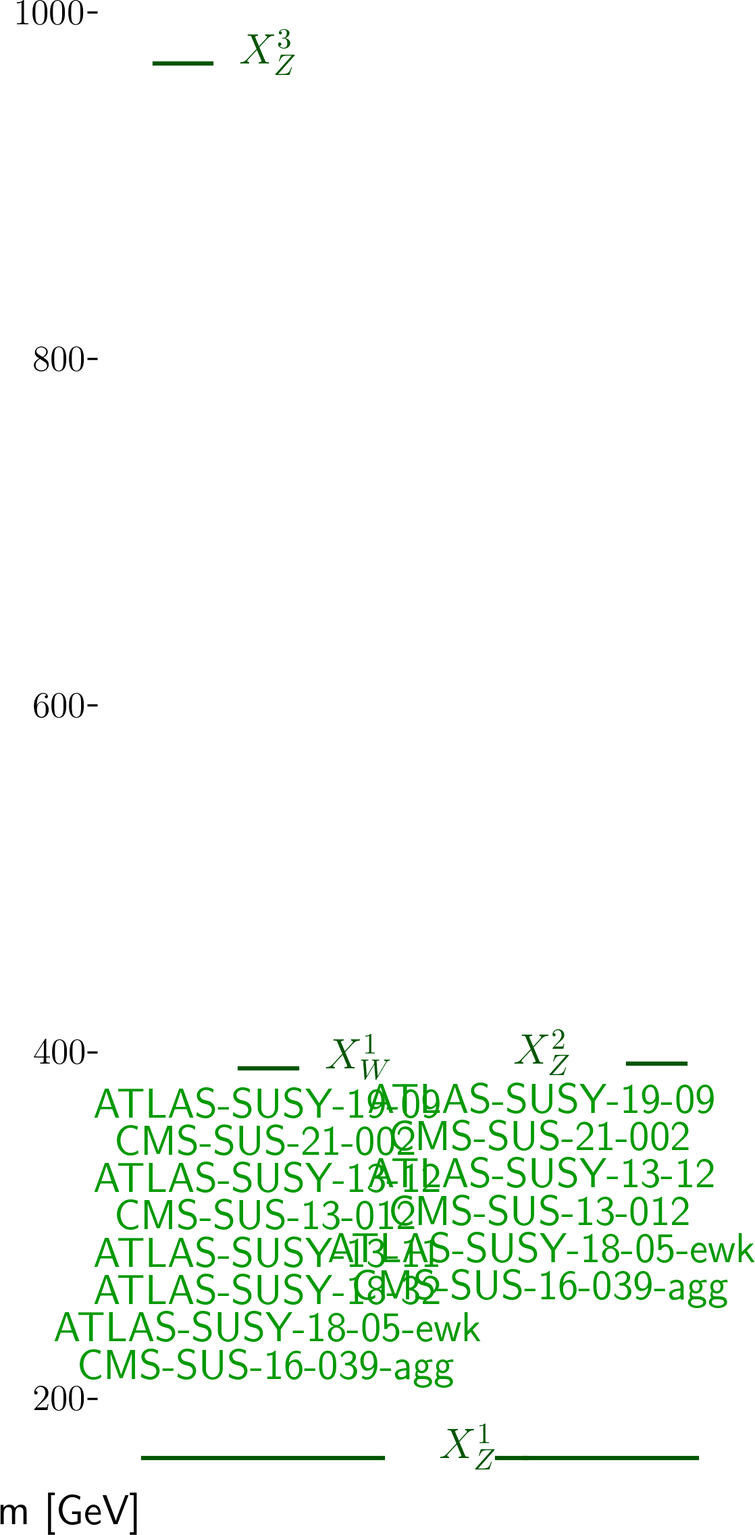
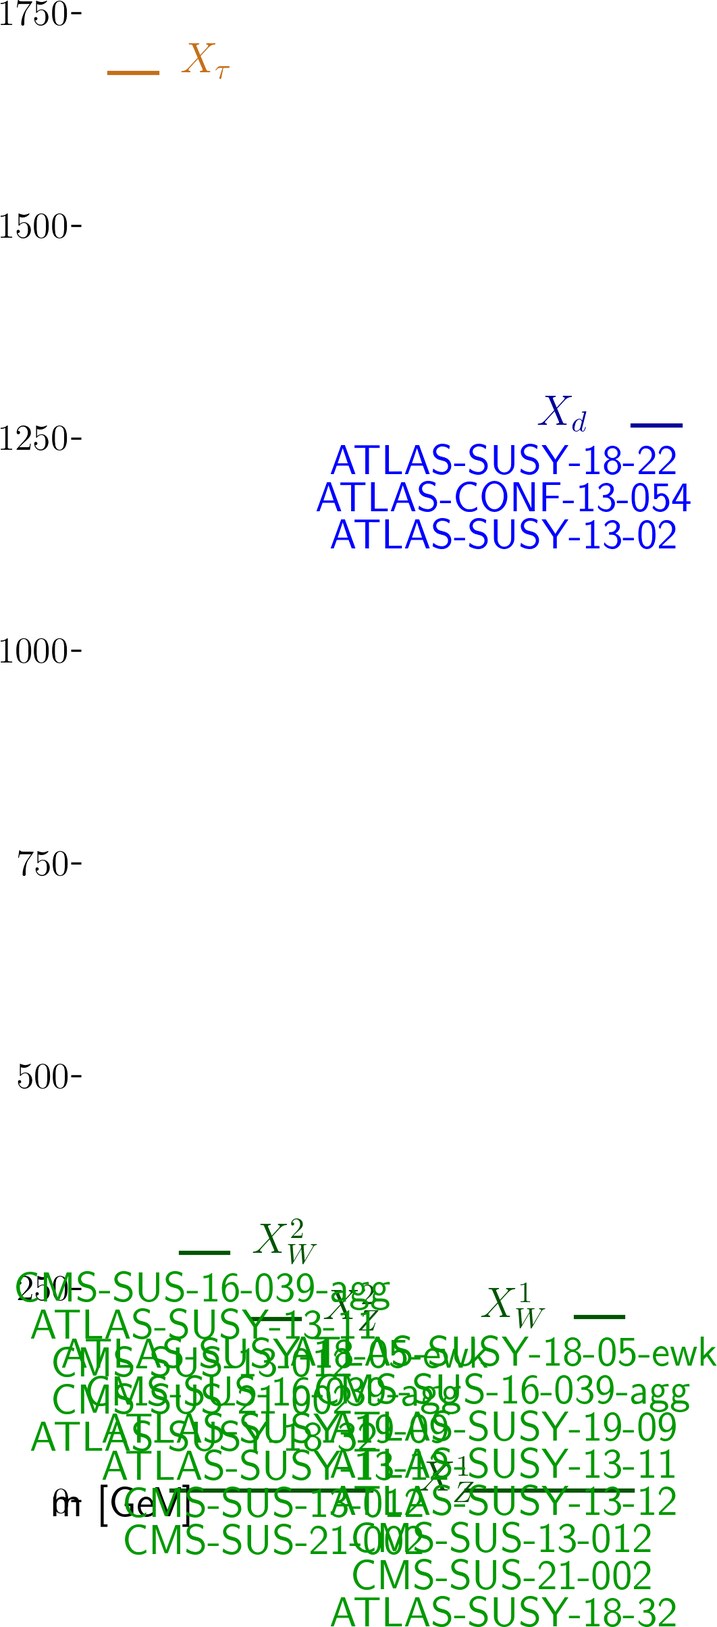
automated update by plotHiscore.py to fake_ewk1_310:     K=66.319 TL=76.07 walkerid=0

diff --git a/protomodels/fake_ewk1_310/rawnumbers.html b/protomodels/fake_ewk1_310/rawnumbers.html
@@ -1,31 +1,59 @@
 <table>
 <tr><th>Analysis Name</th><th>Type</th><th>Dataset</th><th>Topos</th><th>Observed</th><th>Expected</th><th>Approx &sigma;</th><th>Particles</th><th>Signal</th>
 </tr>
-<tr><td><a href=https://atlas.web.cern.ch/Atlas/GROUPS/PHYSICS/PAPERS/SUSY-2018-05/>ATLAS-SUSY-2018-05-ewk</a></td><td>comb</td> <td>-</td><td>TChiWZ</td><td> 0.7 fb </td><td> 0.1 fb</td><td style="text-align:right">7.0 &sigma;</td><td style="text-align:right">X<sup>1</sup><sub>W</sub>, X<sup>1</sup><sub>Z</sub>, X<sup>2</sup><sub>Z</sub></td><td style="text-align:right">-</td></tr>
-<tr><td><a href=https://atlas.web.cern.ch/Atlas/GROUPS/PHYSICS/PAPERS/SUSY-2018-32/>ATLAS-SUSY-2018-32</a></td><td>comb</td> <td>-</td><td>TChiWW</td><td> 1 fb </td><td> 0.4 fb</td><td style="text-align:right">3.3 &sigma;</td><td style="text-align:right">X<sup>1</sup><sub>W</sub>, X<sup>1</sup><sub>Z</sub></td><td style="text-align:right">-</td></tr>
-<tr><td><a href=http://cms-results.web.cern.ch/cms-results/public-results/publications/SUS-21-002/>CMS-SUS-21-002</a></td><td>comb</td> <td>-</td><td>TChiWW, TChiWZ</td><td> 2 fb </td><td> 1 fb</td><td style="text-align:right">2.9 &sigma;</td><td style="text-align:right">X<sup>1</sup><sub>W</sub>, X<sup>1</sup><sub>Z</sub>, X<sup>2</sup><sub>Z</sub></td><td style="text-align:right">-</td></tr>
-<tr><td><a href=https://twiki.cern.ch/twiki/bin/view/CMSPublic/PhysicsResultsSUS13012>CMS-SUS-13-012</a></td><td>em</td> <td>6NJet8_500HT800 ...</td><td>TChiWW, TChiWZ, TChiZZ</td><td>75</td><td>52.00 +/- 12.00</td><td style="text-align:right">1.6 &sigma;</td><td style="text-align:right">X<sup>1</sup><sub>W</sub>, X<sup>1</sup><sub>Z</sub>, X<sup>2</sup><sub>Z</sub></td><td style="text-align:right">1</td></tr>
-<tr><td><a href=https://atlas.web.cern.ch/Atlas/GROUPS/PHYSICS/PAPERS/SUSY-2013-12/>ATLAS-SUSY-2013-12</a></td><td>em</td> <td>SR0tau_a_Bin16</td><td>TChiWZ</td><td>9</td><td>4.60 +/- 1.70</td><td style="text-align:right">1.5 &sigma;</td><td style="text-align:right">X<sup>1</sup><sub>W</sub>, X<sup>1</sup><sub>Z</sub>, X<sup>2</sup><sub>Z</sub></td><td style="text-align:right">3</td></tr>
-<tr><td><a href=https://atlas.web.cern.ch/Atlas/GROUPS/PHYSICS/PAPERS/SUSY-2013-11/>ATLAS-SUSY-2013-11</a></td><td>em</td> <td>WWc-SF</td><td>TChiWW</td><td>28</td><td>20.30 +/- 3.50</td><td style="text-align:right">1.3 &sigma;</td><td style="text-align:right">X<sup>1</sup><sub>W</sub>, X<sup>1</sup><sub>Z</sub></td><td style="text-align:right">1</td></tr>
-<tr><td><a href=http://cms-results.web.cern.ch/cms-results/public-results/publications/SUS-16-039/index.html>CMS-SUS-16-039-agg</a></td><td>comb</td> <td>-</td><td>TChiWZ</td><td> 2 fb </td><td> 1 fb</td><td style="text-align:right">1.2 &sigma;</td><td style="text-align:right">X<sup>1</sup><sub>W</sub>, X<sup>1</sup><sub>Z</sub>, X<sup>2</sup><sub>Z</sub></td><td style="text-align:right">-</td></tr>
-<tr><td><a href=https://atlas.web.cern.ch/Atlas/GROUPS/PHYSICS/PAPERS/SUSY-2019-09/>ATLAS-SUSY-2019-09</a></td><td>comb</td> <td>-</td><td>TChiWZ</td><td> 1 fb </td><td> 0.2 fb</td><td style="text-align:right">inf &sigma;</td><td style="text-align:right">X<sup>1</sup><sub>W</sub>, X<sup>1</sup><sub>Z</sub>, X<sup>2</sup><sub>Z</sub></td><td style="text-align:right">-</td></tr>
+<tr><td><a href=https://atlas.web.cern.ch/Atlas/GROUPS/PHYSICS/PAPERS/SUSY-2019-09/>ATLAS-SUSY-2019-09</a></td><td>comb</td> <td>-</td><td>TChiWZ</td><td> 1 fb </td><td> 0.3 fb</td><td style="text-align:right">6.0 &sigma;</td><td style="text-align:right">X<sup>1</sup><sub>W</sub>, X<sup>1</sup><sub>Z</sub>, X<sup>2</sup><sub>Z</sub></td><td style="text-align:right">-</td></tr>
+<tr><td><a href=http://cms-results.web.cern.ch/cms-results/public-results/publications/SUS-16-039/index.html>CMS-SUS-16-039-agg</a></td><td>comb</td> <td>-</td><td>TChiWZ</td><td> 4 fb </td><td> 2 fb</td><td style="text-align:right">3.4 &sigma;</td><td style="text-align:right">X<sup>1</sup><sub>W</sub>, X<sup>2</sup><sub>W</sub>, X<sup>1</sup><sub>Z</sub>, X<sup>2</sup><sub>Z</sub></td><td style="text-align:right">-</td></tr>
+<tr><td><a href=https://atlas.web.cern.ch/Atlas/GROUPS/PHYSICS/PAPERS/SUSY-2018-05/>ATLAS-SUSY-2018-05-ewk</a></td><td>comb</td> <td>-</td><td>TChiWZ</td><td> 0.4 fb </td><td> 0.2 fb</td><td style="text-align:right">3.2 &sigma;</td><td style="text-align:right">X<sup>1</sup><sub>W</sub>, X<sup>1</sup><sub>Z</sub>, X<sup>2</sup><sub>Z</sub></td><td style="text-align:right">-</td></tr>
+<tr><td><a href=https://atlas.web.cern.ch/Atlas/GROUPS/PHYSICS/PAPERS/SUSY-2013-11/>ATLAS-SUSY-2013-11</a></td><td>em</td> <td>WWb-DF</td><td>TChiWW</td><td>33</td><td>18.10 +/- 2.60</td><td style="text-align:right">2.7 &sigma;</td><td style="text-align:right">X<sup>1</sup><sub>W</sub>, X<sup>2</sup><sub>W</sub>, X<sup>1</sup><sub>Z</sub></td><td style="text-align:right">7</td></tr>
+<tr><td><a href=https://atlas.web.cern.ch/Atlas/GROUPS/PHYSICS/PAPERS/SUSY-2018-32/>ATLAS-SUSY-2018-32</a></td><td>comb</td> <td>-</td><td>TChiWW</td><td> 0.7 fb </td><td> 0.3 fb</td><td style="text-align:right">2.2 &sigma;</td><td style="text-align:right">X<sup>1</sup><sub>W</sub>, X<sup>2</sup><sub>W</sub>, X<sup>1</sup><sub>Z</sub></td><td style="text-align:right">-</td></tr>
+<tr><td><a href=https://atlas.web.cern.ch/Atlas/GROUPS/PHYSICS/PAPERS/SUSY-2013-02/>ATLAS-SUSY-2013-02</a></td><td>em</td> <td>SR4jm</td><td>T2</td><td>52</td><td>37.00 +/- 6.00</td><td style="text-align:right">1.7 &sigma;</td><td style="text-align:right">X<sub>d</sub>, X<sup>1</sup><sub>Z</sub></td><td style="text-align:right">-</td></tr>
+<tr><td><a href=https://twiki.cern.ch/twiki/bin/view/CMSPublic/PhysicsResultsSUS13012>CMS-SUS-13-012</a></td><td>em</td> <td>3NJet6_800HT100 ...</td><td>TChiWW, TChiWZ, TChiZZ</td><td>138</td><td>108.00 +/- 15.00</td><td style="text-align:right">1.6 &sigma;</td><td style="text-align:right">X<sup>1</sup><sub>W</sub>, X<sup>2</sup><sub>W</sub>, X<sup>1</sup><sub>Z</sub>, X<sup>2</sup><sub>Z</sub></td><td style="text-align:right">4</td></tr>
+<tr><td><a href=https://atlas.web.cern.ch/Atlas/GROUPS/PHYSICS/CONFNOTES/ATLAS-CONF-2013-054/>ATLAS-CONF-2013-054</a></td><td>em</td> <td>8j50 flavor 0 b ...</td><td>T2</td><td>46</td><td>35.00 +/- 4.00</td><td style="text-align:right">1.5 &sigma;</td><td style="text-align:right">X<sub>d</sub>, X<sup>1</sup><sub>Z</sub></td><td style="text-align:right">-</td></tr>
+<tr><td><a href=https://atlas.web.cern.ch/Atlas/GROUPS/PHYSICS/PAPERS/SUSY-2013-12/>ATLAS-SUSY-2013-12</a></td><td>em</td> <td>SR0tau_a_Bin16</td><td>TChiWZ</td><td>9</td><td>4.60 +/- 1.70</td><td style="text-align:right">1.5 &sigma;</td><td style="text-align:right">X<sup>1</sup><sub>W</sub>, X<sup>1</sup><sub>Z</sub>, X<sup>2</sup><sub>Z</sub></td><td style="text-align:right">7</td></tr>
+<tr><td><a href=http://cms-results.web.cern.ch/cms-results/public-results/publications/SUS-21-002/>CMS-SUS-21-002</a></td><td>comb</td> <td>-</td><td>TChiWW, TChiWZ</td><td> 1 fb </td><td> 0.9 fb</td><td style="text-align:right">1.4 &sigma;</td><td style="text-align:right">X<sup>1</sup><sub>W</sub>, X<sup>2</sup><sub>W</sub>, X<sup>1</sup><sub>Z</sub>, X<sup>2</sup><sub>Z</sub></td><td style="text-align:right">-</td></tr>
+<tr><td><a href=https://atlas.web.cern.ch/Atlas/GROUPS/PHYSICS/PAPERS/SUSY-2018-22/>ATLAS-SUSY-2018-22</a></td><td>em</td> <td>SR2j_2200</td><td>T2</td><td>1056</td><td>980.00 +/- 50.00</td><td style="text-align:right">1.3 &sigma;</td><td style="text-align:right">X<sub>d</sub>, X<sup>1</sup><sub>Z</sub></td><td style="text-align:right">-</td></tr>
 </table>
 <table style='color:grey'>
-<tr><th>Not in Best Combo</th><th>Type</th><th>Dataset</th><th>Topos</th><th>Observed</th><th>Expected</th><th>Approx &sigma;</th><th>Particles</th><tr><td><a href=https://atlas.web.cern.ch/Atlas/GROUPS/PHYSICS/PAPERS/SUSY-2016-24/>ATLAS-SUSY-2016-24</a></td><td>em</td> <td>SR2-int</td><td>TChiWZ</td><td>21</td><td>4.10 +/- 2.60</td><td style="text-align:right">3.8 &sigma;</td><td style="text-align:right">X<sup>1</sup><sub>W</sub>, X<sup>1</sup><sub>Z</sub>, X<sup>2</sup><sub>Z</sub></td><td style="text-align:right">15</td></tr>
-<tr><td><a href=https://atlas.web.cern.ch/Atlas/GROUPS/PHYSICS/PAPERS/SUSY-2016-24/>ATLAS-SUSY-2016-24</a></td><td>em</td> <td>WZ-0Jc</td><td>TChiWZ</td><td>6</td><td>1.60 +/- 0.30</td><td style="text-align:right">2.6 &sigma;</td><td style="text-align:right">X<sup>1</sup><sub>W</sub>, X<sup>1</sup><sub>Z</sub>, X<sup>2</sup><sub>Z</sub></td><td style="text-align:right">4</td></tr>
-<tr><td><a href=https://atlas.web.cern.ch/Atlas/GROUPS/PHYSICS/PAPERS/SUSY-2018-06/>ATLAS-SUSY-2018-06</a></td><td>em</td> <td>SR_low</td><td>TChiWZ</td><td>65</td><td>46.00 +/- 5.00</td><td style="text-align:right">2.1 &sigma;</td><td style="text-align:right">X<sup>1</sup><sub>W</sub>, X<sup>1</sup><sub>Z</sub>, X<sup>2</sup><sub>Z</sub></td><td style="text-align:right">30</td></tr>
-<tr><td><a href=https://atlas.web.cern.ch/Atlas/GROUPS/PHYSICS/PAPERS/SUSY-2017-03/>ATLAS-SUSY-2017-03</a></td><td>em</td> <td>SR2l_Int</td><td>TChiWZ</td><td>7</td><td>2.40 +/- 0.90</td><td style="text-align:right">2.1 &sigma;</td><td style="text-align:right">X<sup>1</sup><sub>W</sub>, X<sup>1</sup><sub>Z</sub>, X<sup>2</sup><sub>Z</sub></td><td style="text-align:right">6</td></tr>
-<tr><td><a href=https://atlas.web.cern.ch/Atlas/GROUPS/PHYSICS/PAPERS/SUSY-2017-03/>ATLAS-SUSY-2017-03</a></td><td>em</td> <td>SR3l_Int</td><td>TChiWZ</td><td>6</td><td>2.30 +/- 0.50</td><td style="text-align:right">2.0 &sigma;</td><td style="text-align:right">X<sup>1</sup><sub>W</sub>, X<sup>1</sup><sub>Z</sub>, X<sup>2</sup><sub>Z</sub></td><td style="text-align:right">5</td></tr>
-<tr><td><a href=https://atlas.web.cern.ch/Atlas/GROUPS/PHYSICS/PAPERS/SUSY-2016-24/>ATLAS-SUSY-2016-24</a></td><td>em</td> <td>WZ-1Jc</td><td>TChiWZ</td><td>4</td><td>1.30 +/- 0.30</td><td style="text-align:right">1.9 &sigma;</td><td style="text-align:right">X<sup>1</sup><sub>W</sub>, X<sup>1</sup><sub>Z</sub>, X<sup>2</sup><sub>Z</sub></td><td style="text-align:right">3</td></tr>
-<tr><td><a href=https://atlas.web.cern.ch/Atlas/GROUPS/PHYSICS/PAPERS/SUSY-2017-03/>ATLAS-SUSY-2017-03</a></td><td>em</td> <td>SR3l_Low</td><td>TChiWZ</td><td>17</td><td>10.00 +/- 2.00</td><td style="text-align:right">1.7 &sigma;</td><td style="text-align:right">X<sup>1</sup><sub>W</sub>, X<sup>1</sup><sub>Z</sub>, X<sup>2</sup><sub>Z</sub></td><td style="text-align:right">6</td></tr>
-<tr><td><a href=https://atlas.web.cern.ch/Atlas/GROUPS/PHYSICS/PAPERS/SUSY-2017-03/>ATLAS-SUSY-2017-03</a></td><td>em</td> <td>SR2l_High</td><td>TChiWZ</td><td>5</td><td>1.90 +/- 0.80</td><td style="text-align:right">1.7 &sigma;</td><td style="text-align:right">X<sup>1</sup><sub>W</sub>, X<sup>1</sup><sub>Z</sub>, X<sup>2</sup><sub>Z</sub></td><td style="text-align:right">2</td></tr>
-<tr><td><a href=https://atlas.web.cern.ch/Atlas/GROUPS/PHYSICS/PAPERS/SUSY-2017-03/>ATLAS-SUSY-2017-03</a></td><td>em</td> <td>SR3l_High</td><td>TChiWZ</td><td>3</td><td>1.10 +/- 0.50</td><td style="text-align:right">1.4 &sigma;</td><td style="text-align:right">X<sup>1</sup><sub>W</sub>, X<sup>1</sup><sub>Z</sub>, X<sup>2</sup><sub>Z</sub></td><td style="text-align:right">3</td></tr>
-<tr><td><a href=https://atlas.web.cern.ch/Atlas/GROUPS/PHYSICS/PAPERS/SUSY-2017-03/>ATLAS-SUSY-2017-03</a></td><td>em</td> <td>SR3l_ISR</td><td>TChiWZ</td><td>7</td><td>3.90 +/- 1.00</td><td style="text-align:right">1.3 &sigma;</td><td style="text-align:right">X<sup>1</sup><sub>W</sub>, X<sup>1</sup><sub>Z</sub>, X<sup>2</sup><sub>Z</sub></td><td style="text-align:right">2</td></tr>
-<tr><td><a href=https://atlas.web.cern.ch/Atlas/GROUPS/PHYSICS/PAPERS/SUSY-2017-03/>ATLAS-SUSY-2017-03</a></td><td>em</td> <td>SR2l_Low</td><td>TChiWZ</td><td>17</td><td>8.40 +/- 5.80</td><td style="text-align:right">1.2 &sigma;</td><td style="text-align:right">X<sup>1</sup><sub>W</sub>, X<sup>1</sup><sub>Z</sub>, X<sup>2</sup><sub>Z</sub></td><td style="text-align:right">1</td></tr>
-<tr><td><a href=https://atlas.web.cern.ch/Atlas/GROUPS/PHYSICS/PAPERS/SUSY-2016-24/>ATLAS-SUSY-2016-24</a></td><td>em</td> <td>WZ-1Ja</td><td>TChiWZ</td><td>4</td><td>2.20 +/- 0.50</td><td style="text-align:right">1.1 &sigma;</td><td style="text-align:right">X<sup>1</sup><sub>W</sub>, X<sup>1</sup><sub>Z</sub>, X<sup>2</sup><sub>Z</sub></td><td style="text-align:right">0</td></tr>
-<tr><td><a href=https://atlas.web.cern.ch/Atlas/GROUPS/PHYSICS/PAPERS/SUSY-2016-24/>ATLAS-SUSY-2016-24</a></td><td>em</td> <td>WZ-1Jb</td><td>TChiWZ</td><td>3</td><td>1.80 +/- 0.30</td><td style="text-align:right">0.9 &sigma;</td><td style="text-align:right">X<sup>1</sup><sub>W</sub>, X<sup>1</sup><sub>Z</sub>, X<sup>2</sup><sub>Z</sub></td><td style="text-align:right">0</td></tr>
-<tr><td><a href=https://atlas.web.cern.ch/Atlas/GROUPS/PHYSICS/PAPERS/SUSY-2016-24/>ATLAS-SUSY-2016-24</a></td><td>em</td> <td>WZ-0Jb</td><td>TChiWZ</td><td>4</td><td>2.70 +/- 0.50</td><td style="text-align:right">0.8 &sigma;</td><td style="text-align:right">X<sup>1</sup><sub>W</sub>, X<sup>1</sup><sub>Z</sub>, X<sup>2</sup><sub>Z</sub></td><td style="text-align:right">2</td></tr>
-<tr><td><a href=https://atlas.web.cern.ch/Atlas/GROUPS/PHYSICS/PAPERS/SUSY-2018-06/>ATLAS-SUSY-2018-06</a></td><td>em</td> <td>SR_ISR</td><td>TChiWZ</td><td>25</td><td>23.40 +/- 2.10</td><td style="text-align:right">0.3 &sigma;</td><td style="text-align:right">X<sup>1</sup><sub>W</sub>, X<sup>1</sup><sub>Z</sub>, X<sup>2</sup><sub>Z</sub></td><td style="text-align:right">4</td></tr>
-<tr><td><a href=https://atlas.web.cern.ch/Atlas/GROUPS/PHYSICS/PAPERS/SUSY-2017-03/>ATLAS-SUSY-2017-03</a></td><td>em</td> <td>SR2l_ISR</td><td>TChiWZ</td><td>4</td><td>2.70 +/- 2.80</td><td style="text-align:right">0.3 &sigma;</td><td style="text-align:right">X<sup>1</sup><sub>W</sub>, X<sup>1</sup><sub>Z</sub>, X<sup>2</sup><sub>Z</sub></td><td style="text-align:right">0</td></tr>
-<tr><td><a href=https://atlas.web.cern.ch/Atlas/GROUPS/PHYSICS/PAPERS/SUSY-2016-24/>ATLAS-SUSY-2016-24</a></td><td>em</td> <td>WZ-0Ja</td><td>TChiWZ</td><td>21</td><td>21.70 +/- 2.90</td><td style="text-align:right">-0.1 &sigma;</td><td style="text-align:right">X<sup>1</sup><sub>W</sub>, X<sup>1</sup><sub>Z</sub>, X<sup>2</sup><sub>Z</sub></td><td style="text-align:right">2</td></tr>
+<tr><th>Not in Best Combo</th><th>Type</th><th>Dataset</th><th>Topos</th><th>Observed</th><th>Expected</th><th>Approx &sigma;</th><th>Particles</th><tr><td><a href=http://atlas.web.cern.ch/Atlas/GROUPS/PHYSICS/PAPERS/SUSY-2015-06/>ATLAS-SUSY-2015-06</a></td><td>em</td> <td>SR5j</td><td>T2</td><td>23</td><td>13.20 +/- 2.20</td><td style="text-align:right">2.1 &sigma;</td><td style="text-align:right">X<sub>d</sub>, X<sup>1</sup><sub>Z</sub></td><td style="text-align:right">-</td></tr>
+<tr><td><a href=https://atlas.web.cern.ch/Atlas/GROUPS/PHYSICS/PAPERS/SUSY-2016-07/>ATLAS-SUSY-2016-07</a></td><td>em</td> <td>4j_Meff_1800</td><td>T2, T6WW</td><td>70</td><td>49.00 +/- 7.00</td><td style="text-align:right">2.0 &sigma;</td><td style="text-align:right">X<sup>1</sup><sub>W</sub>, X<sub>d</sub>, X<sup>1</sup><sub>Z</sub></td><td style="text-align:right">-</td></tr>
+<tr><td><a href=https://atlas.web.cern.ch/Atlas/GROUPS/PHYSICS/PAPERS/SUSY-2018-06/>ATLAS-SUSY-2018-06</a></td><td>em</td> <td>SR_low</td><td>TChiWZ</td><td>63</td><td>46.00 +/- 5.00</td><td style="text-align:right">1.9 &sigma;</td><td style="text-align:right">X<sup>1</sup><sub>W</sub>, X<sup>1</sup><sub>Z</sub>, X<sup>2</sup><sub>Z</sub></td><td style="text-align:right">25</td></tr>
+<tr><td><a href=https://atlas.web.cern.ch/Atlas/GROUPS/PHYSICS/PAPERS/SUSY-2016-07/>ATLAS-SUSY-2016-07</a></td><td>em</td> <td>5j_Meff_1600</td><td>T2, T6WW</td><td>162</td><td>128.00 +/- 14.00</td><td style="text-align:right">1.8 &sigma;</td><td style="text-align:right">X<sup>1</sup><sub>W</sub>, X<sub>d</sub>, X<sup>1</sup><sub>Z</sub></td><td style="text-align:right">-</td></tr>
+<tr><td><a href=https://atlas.web.cern.ch/Atlas/GROUPS/PHYSICS/PAPERS/SUSY-2018-06/>ATLAS-SUSY-2018-06</a></td><td>em</td> <td>SR_ISR</td><td>TChiWZ</td><td>33</td><td>23.40 +/- 2.10</td><td style="text-align:right">1.7 &sigma;</td><td style="text-align:right">X<sup>1</sup><sub>W</sub>, X<sup>1</sup><sub>Z</sub>, X<sup>2</sup><sub>Z</sub></td><td style="text-align:right">8</td></tr>
+<tr><td><a href=https://atlas.web.cern.ch/Atlas/GROUPS/PHYSICS/PAPERS/SUSY-2016-07/>ATLAS-SUSY-2016-07</a></td><td>em</td> <td>2j_Meff_2800</td><td>T2, T6WW</td><td>23</td><td>17.30 +/- 2.00</td><td style="text-align:right">1.2 &sigma;</td><td style="text-align:right">X<sup>1</sup><sub>W</sub>, X<sub>d</sub>, X<sup>1</sup><sub>Z</sub></td><td style="text-align:right">-</td></tr>
+<tr><td><a href=https://atlas.web.cern.ch/Atlas/GROUPS/PHYSICS/PAPERS/SUSY-2016-07/>ATLAS-SUSY-2016-07</a></td><td>em</td> <td>2j_Meff_1600</td><td>T2, T6WW</td><td>256</td><td>228.00 +/- 19.00</td><td style="text-align:right">1.2 &sigma;</td><td style="text-align:right">X<sup>1</sup><sub>W</sub>, X<sub>d</sub>, X<sup>1</sup><sub>Z</sub></td><td style="text-align:right">-</td></tr>
+<tr><td><a href=https://atlas.web.cern.ch/Atlas/GROUPS/PHYSICS/PAPERS/SUSY-2016-07/>ATLAS-SUSY-2016-07</a></td><td>em</td> <td>4j_Meff_2600</td><td>T2, T6WW</td><td>9</td><td>5.80 +/- 2.00</td><td style="text-align:right">1.0 &sigma;</td><td style="text-align:right">X<sup>1</sup><sub>W</sub>, X<sub>d</sub>, X<sup>1</sup><sub>Z</sub></td><td style="text-align:right">-</td></tr>
+<tr><td><a href=https://atlas.web.cern.ch/Atlas/GROUPS/PHYSICS/CONFNOTES/ATLAS-CONF-2013-047/>ATLAS-CONF-2013-047</a></td><td>em</td> <td>A Loose</td><td>T2</td><td>5190</td><td>4700.00 +/- 500.00</td><td style="text-align:right">1.0 &sigma;</td><td style="text-align:right">X<sub>d</sub>, X<sup>1</sup><sub>Z</sub></td><td style="text-align:right">-</td></tr>
+<tr><td><a href=https://atlas.web.cern.ch/Atlas/GROUPS/PHYSICS/CONFNOTES/ATLAS-CONF-2013-047/>ATLAS-CONF-2013-047</a></td><td>em</td> <td>A Medium</td><td>T2</td><td>142</td><td>122.00 +/- 18.00</td><td style="text-align:right">0.9 &sigma;</td><td style="text-align:right">X<sub>d</sub>, X<sup>1</sup><sub>Z</sub></td><td style="text-align:right">-</td></tr>
+<tr><td><a href=https://atlas.web.cern.ch/Atlas/GROUPS/PHYSICS/PAPERS/SUSY-2016-07/>ATLAS-SUSY-2016-07</a></td><td>em</td> <td>2j_Meff_3600</td><td>T2, T6WW</td><td>5</td><td>3.60 +/- 0.90</td><td style="text-align:right">0.7 &sigma;</td><td style="text-align:right">X<sup>1</sup><sub>W</sub>, X<sub>d</sub>, X<sup>1</sup><sub>Z</sub></td><td style="text-align:right">-</td></tr>
+<tr><td><a href=https://atlas.web.cern.ch/Atlas/GROUPS/PHYSICS/PAPERS/SUSY-2016-07/>ATLAS-SUSY-2016-07</a></td><td>em</td> <td>4j_Meff_2200</td><td>T2, T6WW</td><td>19</td><td>16.50 +/- 2.70</td><td style="text-align:right">0.5 &sigma;</td><td style="text-align:right">X<sup>1</sup><sub>W</sub>, X<sub>d</sub>, X<sup>1</sup><sub>Z</sub></td><td style="text-align:right">-</td></tr>
+<tr><td><a href=https://atlas.web.cern.ch/Atlas/GROUPS/PHYSICS/PAPERS/SUSY-2016-07/>ATLAS-SUSY-2016-07</a></td><td>em</td> <td>3j_Meff_1300</td><td>T2, T6WW</td><td>407</td><td>390.00 +/- 29.00</td><td style="text-align:right">0.5 &sigma;</td><td style="text-align:right">X<sup>1</sup><sub>W</sub>, X<sub>d</sub>, X<sup>1</sup><sub>Z</sub></td><td style="text-align:right">-</td></tr>
+<tr><td><a href=http://atlas.web.cern.ch/Atlas/GROUPS/PHYSICS/PAPERS/SUSY-2015-06/>ATLAS-SUSY-2015-06</a></td><td>em</td> <td>SR6jt</td><td>T2</td><td>5</td><td>4.20 +/- 1.20</td><td style="text-align:right">0.4 &sigma;</td><td style="text-align:right">X<sub>d</sub>, X<sup>1</sup><sub>Z</sub></td><td style="text-align:right">-</td></tr>
+<tr><td><a href=https://atlas.web.cern.ch/Atlas/GROUPS/PHYSICS/PAPERS/SUSY-2016-07/>ATLAS-SUSY-2016-07</a></td><td>em</td> <td>5j_Meff_1700</td><td>T2, T6WW</td><td>46</td><td>43.00 +/- 5.00</td><td style="text-align:right">0.4 &sigma;</td><td style="text-align:right">X<sup>1</sup><sub>W</sub>, X<sub>d</sub>, X<sup>1</sup><sub>Z</sub></td><td style="text-align:right">-</td></tr>
+<tr><td><a href=https://atlas.web.cern.ch/Atlas/GROUPS/PHYSICS/PAPERS/SUSY-2016-07/>ATLAS-SUSY-2016-07</a></td><td>em</td> <td>4j_Meff_1400</td><td>T2, T6WW</td><td>189</td><td>182.00 +/- 16.00</td><td style="text-align:right">0.3 &sigma;</td><td style="text-align:right">X<sup>1</sup><sub>W</sub>, X<sub>d</sub>, X<sup>1</sup><sub>Z</sub></td><td style="text-align:right">-</td></tr>
+<tr><td><a href=https://atlas.web.cern.ch/Atlas/GROUPS/PHYSICS/PAPERS/SUSY-2016-07/>ATLAS-SUSY-2016-07</a></td><td>em</td> <td>6j_Meff_1200</td><td>T2, T6WW</td><td>282</td><td>274.00 +/- 32.00</td><td style="text-align:right">0.2 &sigma;</td><td style="text-align:right">X<sup>1</sup><sub>W</sub>, X<sub>d</sub>, X<sup>1</sup><sub>Z</sub></td><td style="text-align:right">-</td></tr>
+<tr><td><a href=https://atlas.web.cern.ch/Atlas/GROUPS/PHYSICS/PAPERS/SUSY-2016-07/>ATLAS-SUSY-2016-07</a></td><td>em</td> <td>5j_Meff_2600</td><td>T2, T6WW</td><td>10</td><td>9.40 +/- 2.10</td><td style="text-align:right">0.2 &sigma;</td><td style="text-align:right">X<sup>1</sup><sub>W</sub>, X<sub>d</sub>, X<sup>1</sup><sub>Z</sub></td><td style="text-align:right">-</td></tr>
+<tr><td><a href=https://atlas.web.cern.ch/Atlas/GROUPS/PHYSICS/PAPERS/SUSY-2016-07/>ATLAS-SUSY-2016-07</a></td><td>em</td> <td>6j_Meff_2200</td><td>T2, T6WW</td><td>3</td><td>3.10 +/- 1.30</td><td style="text-align:right">0.1 &sigma;</td><td style="text-align:right">X<sup>1</sup><sub>W</sub>, X<sub>d</sub>, X<sup>1</sup><sub>Z</sub></td><td style="text-align:right">-</td></tr>
+<tr><td><a href=https://atlas.web.cern.ch/Atlas/GROUPS/PHYSICS/CONFNOTES/ATLAS-CONF-2013-047/>ATLAS-CONF-2013-047</a></td><td>em</td> <td>B Medium</td><td>T2</td><td>33</td><td>33.00 +/- 7.00</td><td style="text-align:right">0.0 &sigma;</td><td style="text-align:right">X<sub>d</sub>, X<sup>1</sup><sub>Z</sub></td><td style="text-align:right">-</td></tr>
+<tr><td><a href=http://atlas.web.cern.ch/Atlas/GROUPS/PHYSICS/PAPERS/SUSY-2015-06/>ATLAS-SUSY-2015-06</a></td><td>em</td> <td>SR2jl</td><td>T2</td><td>282</td><td>283.00 +/- 24.00</td><td style="text-align:right">-0.0 &sigma;</td><td style="text-align:right">X<sub>d</sub>, X<sup>1</sup><sub>Z</sub></td><td style="text-align:right">-</td></tr>
+<tr><td><a href=https://atlas.web.cern.ch/Atlas/GROUPS/PHYSICS/CONFNOTES/ATLAS-CONF-2013-047/>ATLAS-CONF-2013-047</a></td><td>em</td> <td>B Tight</td><td>T2</td><td>2</td><td>2.40 +/- 1.40</td><td style="text-align:right">-0.1 &sigma;</td><td style="text-align:right">X<sub>d</sub>, X<sup>1</sup><sub>Z</sub></td><td style="text-align:right">-</td></tr>
+<tr><td><a href=https://atlas.web.cern.ch/Atlas/GROUPS/PHYSICS/CONFNOTES/ATLAS-CONF-2013-047/>ATLAS-CONF-2013-047</a></td><td>em</td> <td>C Medium</td><td>T2</td><td>197</td><td>210.00 +/- 40.00</td><td style="text-align:right">-0.3 &sigma;</td><td style="text-align:right">X<sub>d</sub>, X<sup>1</sup><sub>Z</sub></td><td style="text-align:right">-</td></tr>
+<tr><td><a href=https://atlas.web.cern.ch/Atlas/GROUPS/PHYSICS/PAPERS/SUSY-2016-07/>ATLAS-SUSY-2016-07</a></td><td>em</td> <td>4j_Meff_1000</td><td>T2, T6WW</td><td>118</td><td>124.00 +/- 12.00</td><td style="text-align:right">-0.4 &sigma;</td><td style="text-align:right">X<sup>1</sup><sub>W</sub>, X<sub>d</sub>, X<sup>1</sup><sub>Z</sub></td><td style="text-align:right">-</td></tr>
+<tr><td><a href=https://atlas.web.cern.ch/Atlas/GROUPS/PHYSICS/CONFNOTES/ATLAS-CONF-2013-047/>ATLAS-CONF-2013-047</a></td><td>em</td> <td>C Tight</td><td>T2</td><td>1</td><td>1.60 +/- 1.40</td><td style="text-align:right">-0.4 &sigma;</td><td style="text-align:right">X<sub>d</sub>, X<sup>1</sup><sub>Z</sub></td><td style="text-align:right">-</td></tr>
+<tr><td><a href=http://atlas.web.cern.ch/Atlas/GROUPS/PHYSICS/PAPERS/SUSY-2015-06/>ATLAS-SUSY-2015-06</a></td><td>em</td> <td>SR2jt</td><td>T2</td><td>20</td><td>23.00 +/- 4.00</td><td style="text-align:right">-0.4 &sigma;</td><td style="text-align:right">X<sub>d</sub>, X<sup>1</sup><sub>Z</sub></td><td style="text-align:right">-</td></tr>
+<tr><td><a href=https://atlas.web.cern.ch/Atlas/GROUPS/PHYSICS/PAPERS/SUSY-2016-07/>ATLAS-SUSY-2016-07</a></td><td>em</td> <td>2j_Meff_2400</td><td>T2, T6WW</td><td>38</td><td>42.00 +/- 4.00</td><td style="text-align:right">-0.5 &sigma;</td><td style="text-align:right">X<sup>1</sup><sub>W</sub>, X<sub>d</sub>, X<sup>1</sup><sub>Z</sub></td><td style="text-align:right">-</td></tr>
+<tr><td><a href=https://atlas.web.cern.ch/Atlas/GROUPS/PHYSICS/CONFNOTES/ATLAS-CONF-2013-047/>ATLAS-CONF-2013-047</a></td><td>em</td> <td>E Loose</td><td>T2</td><td>100</td><td>113.00 +/- 21.00</td><td style="text-align:right">-0.5 &sigma;</td><td style="text-align:right">X<sub>d</sub>, X<sup>1</sup><sub>Z</sub></td><td style="text-align:right">-</td></tr>
+<tr><td><a href=https://atlas.web.cern.ch/Atlas/GROUPS/PHYSICS/PAPERS/SUSY-2016-07/>ATLAS-SUSY-2016-07</a></td><td>em</td> <td>4j_Meff_3000</td><td>T2, T6WW</td><td>1</td><td>2.00 +/- 0.60</td><td style="text-align:right">-0.6 &sigma;</td><td style="text-align:right">X<sup>1</sup><sub>W</sub>, X<sub>d</sub>, X<sup>1</sup><sub>Z</sub></td><td style="text-align:right">-</td></tr>
+<tr><td><a href=http://atlas.web.cern.ch/Atlas/GROUPS/PHYSICS/PAPERS/SUSY-2015-06/>ATLAS-SUSY-2015-06</a></td><td>em</td> <td>SR2jm</td><td>T2</td><td>177</td><td>191.00 +/- 21.00</td><td style="text-align:right">-0.6 &sigma;</td><td style="text-align:right">X<sub>d</sub>, X<sup>1</sup><sub>Z</sub></td><td style="text-align:right">-</td></tr>
+<tr><td><a href=https://atlas.web.cern.ch/Atlas/GROUPS/PHYSICS/PAPERS/SUSY-2016-07/>ATLAS-SUSY-2016-07</a></td><td>em</td> <td>6j_Meff_2600</td><td>T2, T6WW</td><td>1</td><td>2.20 +/- 1.40</td><td style="text-align:right">-0.6 &sigma;</td><td style="text-align:right">X<sup>1</sup><sub>W</sub>, X<sub>d</sub>, X<sup>1</sup><sub>Z</sub></td><td style="text-align:right">-</td></tr>
+<tr><td><a href=https://atlas.web.cern.ch/Atlas/GROUPS/PHYSICS/PAPERS/SUSY-2016-07/>ATLAS-SUSY-2016-07</a></td><td>em</td> <td>2j_Meff_1200</td><td>T2, T6WW</td><td>497</td><td>526.00 +/- 31.00</td><td style="text-align:right">-0.8 &sigma;</td><td style="text-align:right">X<sup>1</sup><sub>W</sub>, X<sub>d</sub>, X<sup>1</sup><sub>Z</sub></td><td style="text-align:right">-</td></tr>
+<tr><td><a href=http://atlas.web.cern.ch/Atlas/GROUPS/PHYSICS/PAPERS/SUSY-2015-06/>ATLAS-SUSY-2015-06</a></td><td>em</td> <td>SR4jt</td><td>T2</td><td>2</td><td>4.10 +/- 1.10</td><td style="text-align:right">-0.9 &sigma;</td><td style="text-align:right">X<sub>d</sub>, X<sup>1</sup><sub>Z</sub></td><td style="text-align:right">-</td></tr>
+<tr><td><a href=http://cms-results.web.cern.ch/cms-results/public-results/publications/SUS-19-006/index.html>CMS-SUS-19-006-agg</a></td><td>comb</td> <td>-</td><td>T2</td><td> 0.8 fb </td><td> 1 fb</td><td style="text-align:right">-1.0 &sigma;</td><td style="text-align:right">X<sub>d</sub>, X<sup>1</sup><sub>Z</sub></td><td style="text-align:right">-</td></tr>
+<tr><td><a href=https://atlas.web.cern.ch/Atlas/GROUPS/PHYSICS/PAPERS/SUSY-2016-07/>ATLAS-SUSY-2016-07</a></td><td>em</td> <td>2j_Meff_2100</td><td>T2, T6WW</td><td>133</td><td>153.00 +/- 14.00</td><td style="text-align:right">-1.1 &sigma;</td><td style="text-align:right">X<sup>1</sup><sub>W</sub>, X<sub>d</sub>, X<sup>1</sup><sub>Z</sub></td><td style="text-align:right">-</td></tr>
+<tr><td><a href=https://atlas.web.cern.ch/Atlas/GROUPS/PHYSICS/CONFNOTES/ATLAS-CONF-2013-047/>ATLAS-CONF-2013-047</a></td><td>em</td> <td>D</td><td>T2</td><td>8</td><td>15.00 +/- 5.00</td><td style="text-align:right">-1.1 &sigma;</td><td style="text-align:right">X<sub>d</sub>, X<sup>1</sup><sub>Z</sub></td><td style="text-align:right">-</td></tr>
+<tr><td><a href=https://atlas.web.cern.ch/Atlas/GROUPS/PHYSICS/PAPERS/SUSY-2016-07/>ATLAS-SUSY-2016-07</a></td><td>em</td> <td>2j_Meff_2000</td><td>T2, T6WW</td><td>74</td><td>90.00 +/- 10.00</td><td style="text-align:right">-1.2 &sigma;</td><td style="text-align:right">X<sup>1</sup><sub>W</sub>, X<sub>d</sub>, X<sup>1</sup><sub>Z</sub></td><td style="text-align:right">-</td></tr>
+<tr><td><a href=https://atlas.web.cern.ch/Atlas/GROUPS/PHYSICS/PAPERS/SUSY-2016-07/>ATLAS-SUSY-2016-07</a></td><td>em</td> <td>5j_Meff_2000</td><td>T2, T6WW</td><td>51</td><td>65.00 +/- 7.00</td><td style="text-align:right">-1.3 &sigma;</td><td style="text-align:right">X<sup>1</sup><sub>W</sub>, X<sub>d</sub>, X<sup>1</sup><sub>Z</sub></td><td style="text-align:right">-</td></tr>
+<tr><td><a href=http://atlas.web.cern.ch/Atlas/GROUPS/PHYSICS/PAPERS/SUSY-2015-06/>ATLAS-SUSY-2015-06</a></td><td>em</td> <td>SR6jm</td><td>T2</td><td>3</td><td>6.90 +/- 1.50</td><td style="text-align:right">-1.3 &sigma;</td><td style="text-align:right">X<sub>d</sub>, X<sup>1</sup><sub>Z</sub></td><td style="text-align:right">-</td></tr>
+<tr><td><a href=https://atlas.web.cern.ch/Atlas/GROUPS/PHYSICS/CONFNOTES/ATLAS-CONF-2013-047/>ATLAS-CONF-2013-047</a></td><td>em</td> <td>E Tight</td><td>T2</td><td>0</td><td>2.90 +/- 1.80</td><td style="text-align:right">-1.5 &sigma;</td><td style="text-align:right">X<sub>d</sub>, X<sup>1</sup><sub>Z</sub></td><td style="text-align:right">-</td></tr>
+<tr><td><a href=https://atlas.web.cern.ch/Atlas/GROUPS/PHYSICS/PAPERS/SUSY-2016-07/>ATLAS-SUSY-2016-07</a></td><td>em</td> <td>6j_Meff_1800</td><td>T2, T6WW</td><td>1</td><td>5.10 +/- 1.80</td><td style="text-align:right">-1.6 &sigma;</td><td style="text-align:right">X<sup>1</sup><sub>W</sub>, X<sub>d</sub>, X<sup>1</sup><sub>Z</sub></td><td style="text-align:right">-</td></tr>
+<tr><td><a href=https://atlas.web.cern.ch/Atlas/GROUPS/PHYSICS/CONFNOTES/ATLAS-CONF-2013-047/>ATLAS-CONF-2013-047</a></td><td>em</td> <td>E Medium</td><td>T2</td><td>7</td><td>30.00 +/- 8.00</td><td style="text-align:right">-2.7 &sigma;</td><td style="text-align:right">X<sub>d</sub>, X<sup>1</sup><sub>Z</sub></td><td style="text-align:right">-</td></tr>
 </table>

diff --git a/protomodels/fake_ewk1_310/index.html b/protomodels/fake_ewk1_310/index.html
@@ -1,24 +1,24 @@
 <html>
 <body>
 <center>
-<table><td><h1>Current best protomodel: <i>K</i>=155.37, <i>TL</i>=162.65</h1><td><img height=60px src=https://smodels.github.io//protomodels/logos/protomodel_lego.png></table>
+<table><td><h1>Current best protomodel: <i>K</i>=66.32, <i>TL</i>=76.07</h1><td><img height=60px src=https://smodels.github.io//protomodels/logos/protomodel_lego.png></table>
 </center>
-<b><a href=./hiscore.slha>ProtoModel</a> <a href=./pmodel.dict>(dict)</a> produced with <a href=https://smodels.github.io//docs/Validation310fastsignal>database v3.1.0.fastsignal</a>, combination strategy <a href=./matrix.png>aggressive</a> in walker 0 step 243.</b> <br>
+<b><a href=./hiscore.slha>ProtoModel</a> <a href=./pmodel.dict>(dict)</a> produced with <a href=https://smodels.github.io//docs/Validation310fastsignal>database v3.1.0.fastsignal</a>, combination strategy <a href=./matrix.png>aggressive</a> in walker 0 step 307.</b> <br>
 <table width=80%>
 <tr><td>
 <br><b>Critics:</b> passed both critics<br>
-<br><b>LLHD Critic:</b> ATLAS-SUSY-2019-09:bkg_onshell_simplified, ATLAS-SUSY-2018-05-ewk:simplified, CMS-SUS-21-002:combined, ATLAS-SUSY-2018-32:bkgonly_simplified, CMS-SUS-16-039-agg:combined, ATLAS-SUSY-2013-12:SR0tau_a_Bin16, ATLAS-SUSY-2013-11:mT2-150-DF:: <span style='color: darkgreen;'>robs=0.87, rexp=7.67</span><br>
-<br><b>20 predictions available. Highest r values are:</b><br><ul>
-<li><a href=https://atlas.web.cern.ch/Atlas/GROUPS/PHYSICS/PAPERS/SUSY-2019-09/>ATLAS-SUSY-2019-09</a>:ul:TChiWZ r=0.71, r<sub>exp</sub>=4.13<br>
-<li><a href=http://cms-results.web.cern.ch/cms-results/public-results/preliminary-results/SUS-17-004/index.html>CMS-PAS-SUS-17-004</a>:ul:TChiWZ r=0.69, r<sub>exp</sub>=N/A<br>
-<li><a href=http://cms-results.web.cern.ch/cms-results/public-results/publications/SUS-17-004/index.html>CMS-SUS-17-004</a>:ul:TChiWZ r=0.69, r<sub>exp</sub>=N/A<br>
-<li><a href=https://atlas.web.cern.ch/Atlas/GROUPS/PHYSICS/PAPERS/SUSY-2017-03/>ATLAS-SUSY-2017-03</a>:ul:TChiWZ r=0.68, r<sub>exp</sub>=N/A<br>
+<br><b>LLHD Critic:</b> ATLAS-SUSY-2019-09:bkg_onshell_simplified, CMS-SUS-16-039-agg:combined, ATLAS-SUSY-2018-05-ewk:simplified, ATLAS-SUSY-2018-32:bkgonly_simplified, ATLAS-SUSY-2013-12:SR0tau_a_Bin16, CMS-SUS-21-002:combined, ATLAS-SUSY-2013-11:WWc-DF, ATLAS-SUSY-2018-22:SR2j_2800:: <span style='color: darkgreen;'>robs=0.85, rexp=4.95</span><br>
+<br><b>32 predictions available. Highest r values are:</b><br><ul>
+<li><a href=https://atlas.web.cern.ch/Atlas/GROUPS/PHYSICS/PAPERS/SUSY-2019-09/>ATLAS-SUSY-2019-09</a>:ul:TChiWZ r=0.55, r<sub>exp</sub>=2.84<br>
+<li><a href=https://atlas.web.cern.ch/Atlas/GROUPS/PHYSICS/PAPERS/SUSY-2018-22/>ATLAS-SUSY-2018-22</a>:ul:T2 r=0.54, r<sub>exp</sub>=N/A<br>
+<li><a href=http://cms-results.web.cern.ch/cms-results/public-results/publications/SUS-17-004/index.html>CMS-SUS-17-004</a>:ul:TChiWZ r=0.52, r<sub>exp</sub>=N/A<br>
+<li><a href=http://cms-results.web.cern.ch/cms-results/public-results/preliminary-results/SUS-17-004/index.html>CMS-PAS-SUS-17-004</a>:ul:TChiWZ r=0.52, r<sub>exp</sub>=N/A<br>
 </ul>
-<td><img width=600px src=./texdoc.png?1756639269>
-<br><span style='font-size: smaller; color: darkred;'>Last updated: Sun Aug 31 13:21:09 2025</span>
+<td><img width=600px src=./texdoc.png?1757155055>
+<br><span style='font-size: smaller; color: darkred;'>Last updated: Sat Sep  6 12:37:35 2025</span>
 </table><table style="width:80%">
-<td width=45%><img height=580px src=./ruler.png?1756639269><td width=55%><img height=220px src=./decays.png?1756639269>
-<font size=-3><iframe type="text/html" height="350px" width="100%" frameborder="0" src="./rawnumbers.html?1756639269"></iframe></font>
+<td width=45%><img height=580px src=./ruler.png?1757155055><td width=55%><img height=220px src=./decays.png?1757155055>
+<font size=-3><iframe type="text/html" height="350px" width="100%" frameborder="0" src="./rawnumbers.html?1757155055"></iframe></font>
 </table>
 </body>
 </html>
